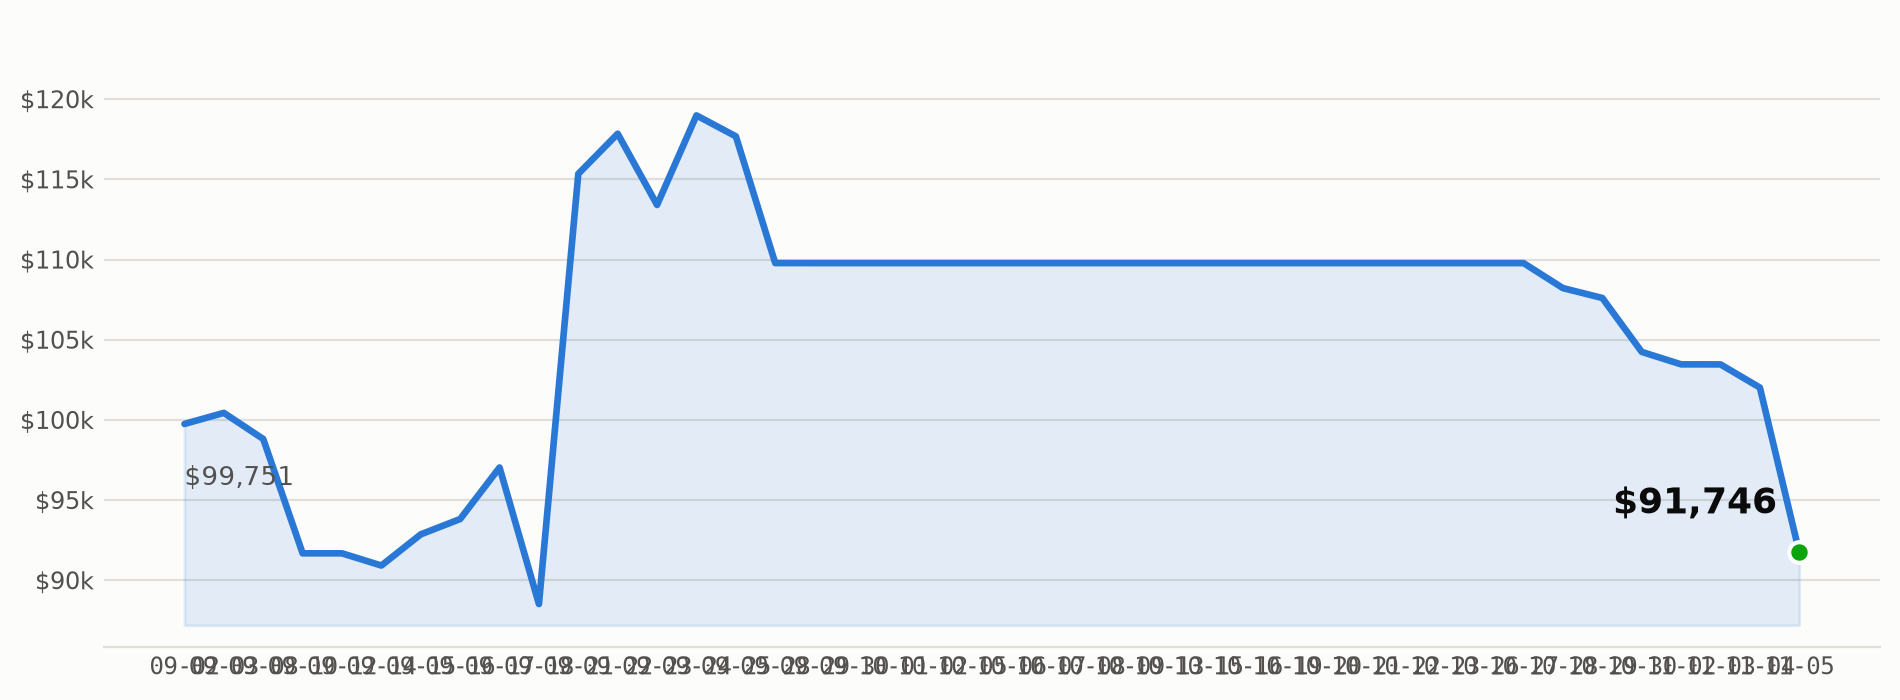
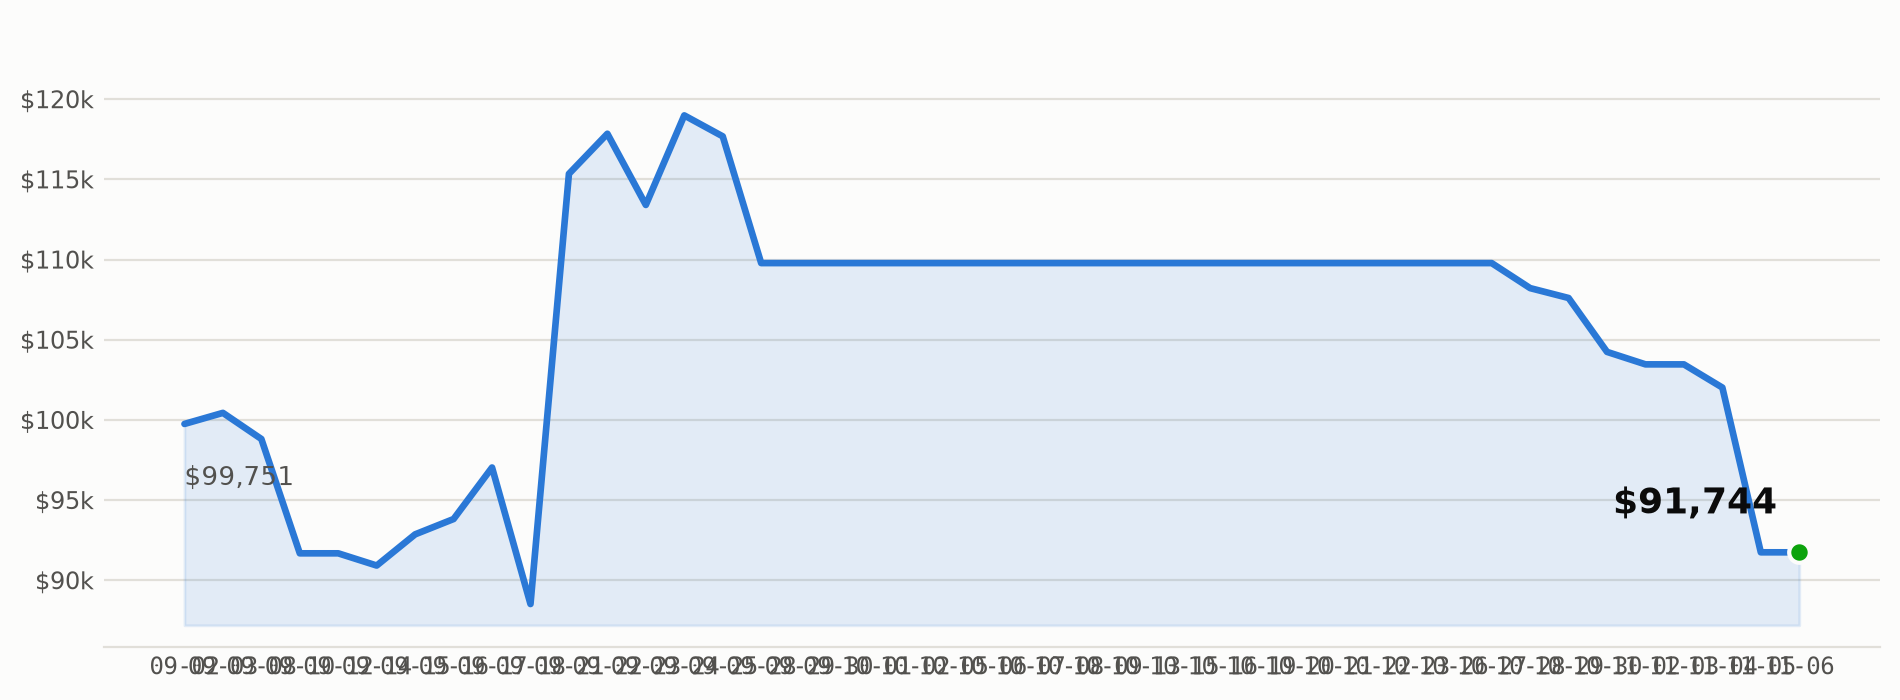
Daily dashboard update for 2026-11-06
Automated commit from scripts/daily_run.py after the market-close run.

diff --git a/README.md b/README.md
@@ -4,15 +4,15 @@ An autonomous AI trading agent for Alpaca's **Options Alpha** hackathon track.
 
 <!-- PNL_DASHBOARD_START: auto-regenerated daily by scripts/update_readme_dashboard.py - do not hand-edit between these markers, it will be overwritten -->
 <p align="center">
-  <img src="https://img.shields.io/badge/return---8.25%25-d03b3b?style=for-the-badge" alt="Total return -8.25%">
-  <img src="https://img.shields.io/badge/P%26L---%248%2C254-d03b3b?style=for-the-badge" alt="Total P&L">
+  <img src="https://img.shields.io/badge/return---8.26%25-d03b3b?style=for-the-badge" alt="Total return -8.26%">
+  <img src="https://img.shields.io/badge/P%26L---%248%2C256-d03b3b?style=for-the-badge" alt="Total P&L">
   <img src="https://img.shields.io/badge/win_rate-40%25-2a78d6?style=for-the-badge" alt="Win rate 40%">
   <img src="https://img.shields.io/badge/trades_closed-5-2a78d6?style=for-the-badge" alt="5 trades closed">
   <img src="https://img.shields.io/badge/status-autonomous-0ca30c?style=for-the-badge" alt="Status: autonomous">
 </p>
 
 <p align="center">
-  <img src="docs/equity_curve.png?v=2026-11-05-91746" alt="AlphaCa account equity over time, currently $91,746" width="800">
+  <img src="docs/equity_curve.png?v=2026-11-06-91744" alt="AlphaCa account equity over time, currently $91,744" width="800">
 </p>
 <!-- PNL_DASHBOARD_END -->
 
